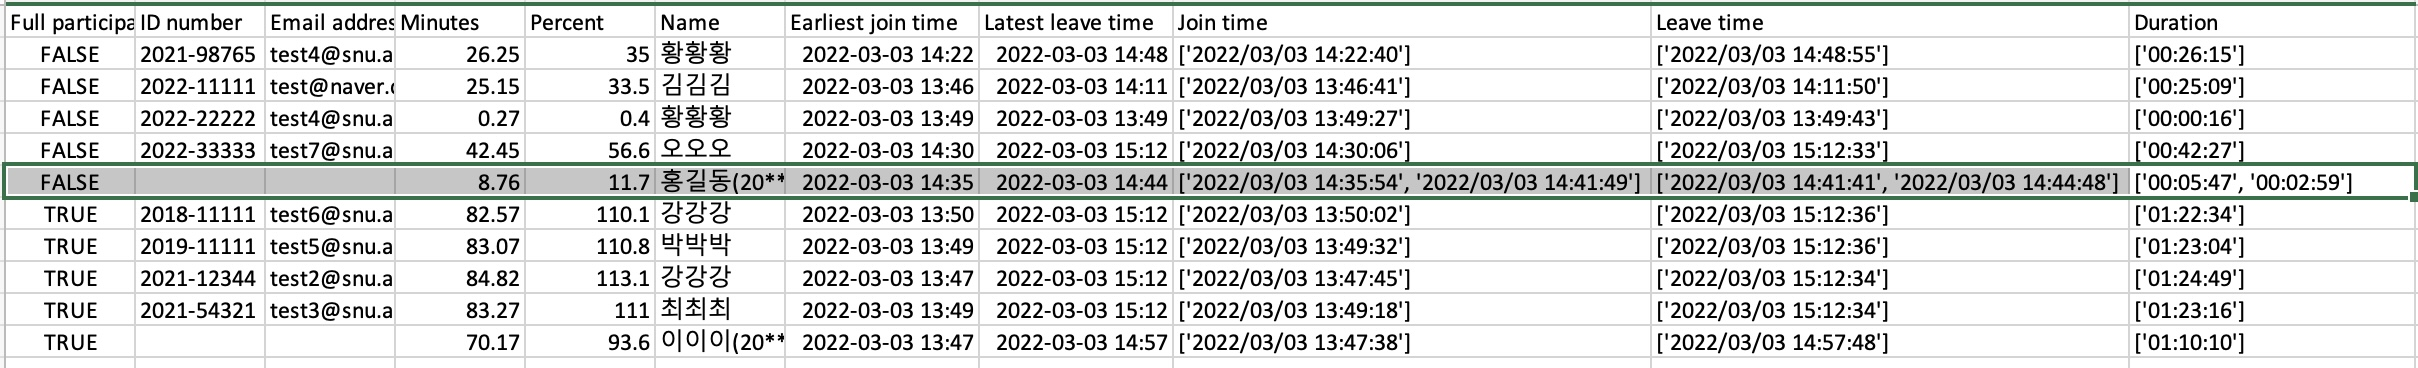
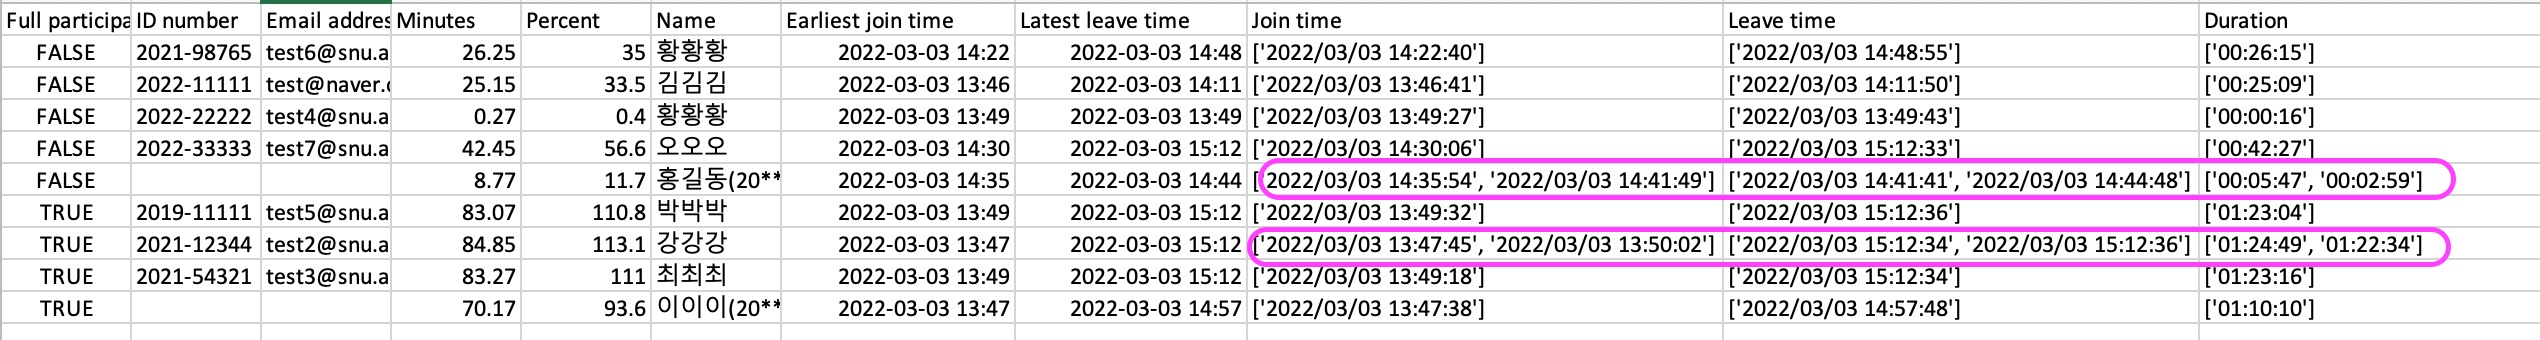
Overlapping times are correctly calculated [Fixes #1]

diff --git a/attchk.py b/attchk.py
@@ -4,8 +4,13 @@ BSD 3-Clause License
 ysBach 2022
 """
 
+import numpy as np
 import pandas as pd
 import argparse
+
+
+def calc_duration(join_time, leave_time):
+    hms = join_time.split("")
 
 p = argparse.ArgumentParser(
     description=(
@@ -34,18 +39,30 @@ p.add_argument('-p', '--percentfull', default=70, type=float,
                help=('Minimum %% of time to be regarded as "full participation". '
                      + 'Default = 70[%%]'))
 args = p.parse_args()
-print(args)
+print("\n", args)
 
 fpath = args.input
 fulltime = args.minutestotal
 fullperc = args.percentfull
 output = args.output
 
-df = pd.read_excel(fpath)
+# -- For Testing --
+# fpath = "testfile-zoom_participants_93522834467.xlsx"
+# fpath = "~/Downloads/zoom_participants_99711167427.xlsx"
+# fulltime = 75
+# fullperc = 66.67
+# output = None
 
-hms = df["Duration"].str.split(":", expand=True)
-minutes = hms[0].astype(int) * 60 + hms[1].astype(int) + hms[2].astype(int)/60
-df["Minutes"] = minutes.apply(lambda x: round(x, 2))
+df = pd.read_excel(fpath)
+# ---------------------------------------------------------------------------------------- #
+
+df["_join"] = df["Join time"].apply(lambda x: pd.to_datetime(x).value/10**9/60)
+df["_left"] = df["Leave time"].apply(lambda x: pd.to_datetime(x).value/10**9/60)
+df.sort_values("_join", inplace=True, ignore_index=True)
+
+# hms = df["Duration"].str.split(":", expand=True)
+# minutes = hms[0].astype(int) * 60 + hms[1].astype(int) + hms[2].astype(int)/60
+# df["Minutes"] = minutes.apply(lambda x: round(x, 2))
 
 # Use all info, because using only one of these will result in a non-unique ID.
 dfg = df.groupby(["ID number", "Name", "Email address"], dropna=False)
@@ -59,21 +76,38 @@ dict4df = {k: [] for k in ["Full participation",
                            "Join time", "Leave time", "Duration"]}
 
 for (idnum, name, email), df_g in dfg:
+    name = name.replace("(참여자정보 부족 : ETL 내 일치 수강생 못 찾음)", " !!! ETL FAILED !!!")
+
     dict4df["ID number"].append(idnum)
-    dict4df["Name"].append(name.replace("(참여자정보 부족 : ETL 내 일치 수강생 못 찾음)", " !!! ETL FAILED !!!"))
+    dict4df["Name"].append(name)
     dict4df["Email address"].append(email)
+
+    if len(df_g) > 1:  # 2 or more rows (multiple connections) - calculate time manually
+        _js = [df_g.iloc[0]["_join"]]
+        _ls = [df_g.iloc[0]["_left"]]
+        for i, row in df_g.iloc[1:].iterrows():
+            if row["_join"] < _ls[-1]:
+                _ls[-1] = max(_ls[-1], row["_left"])
+            else:
+                _js.append(row["_join"])
+                _ls.append(row["_left"])
+        mins = np.sum(np.array(_ls) - np.array(_js))
+    else:  # single connection - Use "Duration" value from ETL
+        hms = df_g.iloc[0]["Duration"].split(":")
+        mins = int(hms[0]) * 60 + int(hms[1]) + int(hms[2])/60
+
     for k in ["Join time", "Leave time", "Duration"]:
         dict4df[k].append(str(df_g[k].tolist()))
     dict4df["Earliest join time"].append(str(df_g["Join time"].min()))
     dict4df["Latest leave time"].append(str(df_g["Leave time"].max()))
-    mins = df_g["Minutes"].sum()
     perc = mins/fulltime*100
     dict4df["Minutes"].append("{:.2f}".format(mins, 2))
     dict4df["Percent"].append("{:.1f}".format(perc, 1))
     dict4df["Full participation"].append(perc >= fullperc)
 
 df2 = pd.DataFrame.from_dict(dict4df)
-df2.sort_values(["Full participation", "ID number", "Name", "Join time"], inplace=True, ignore_index=True)
+df2.sort_values(["Full participation", "ID number", "Name", "Join time"],
+                inplace=True, ignore_index=True)
 
 if output is None:
     from pathlib import Path
